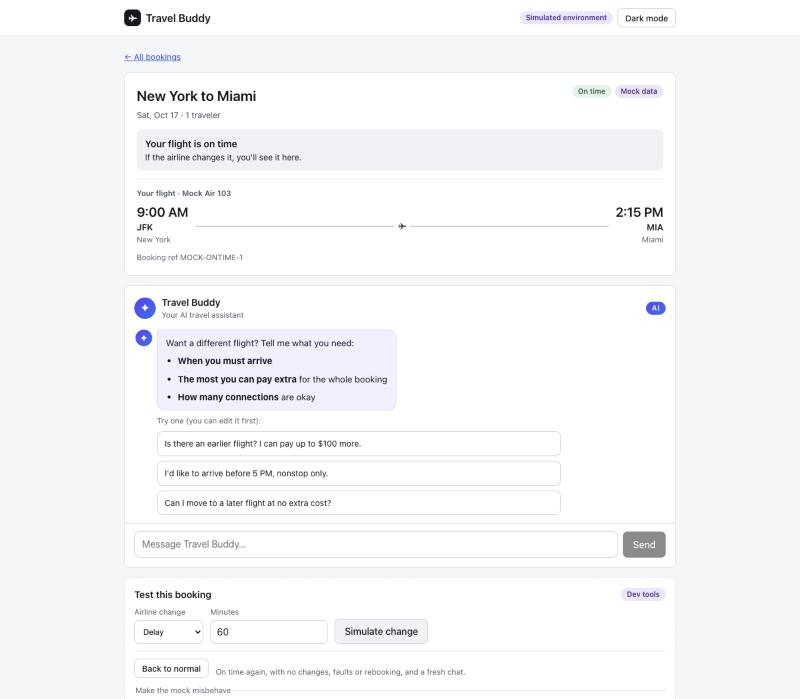
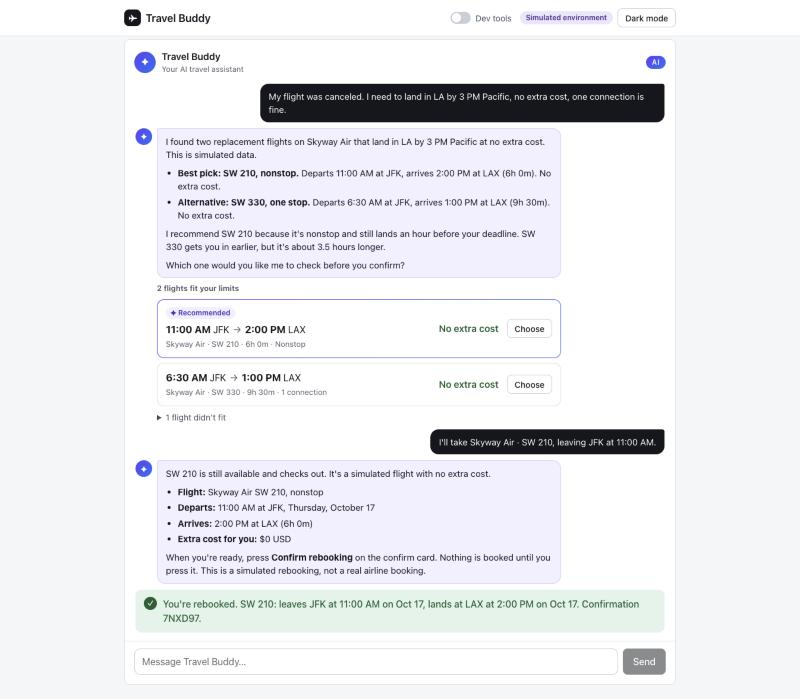
Rewrite the README for a quick read, with new screenshots

diff --git a/README.md b/README.md
@@ -1,22 +1,21 @@
 # Travel Buddy
 
-An AI agent that helps a disrupted traveler compare replacement flights and complete a **simulated** rebooking. Claude reasons and explains. Application code enforces the rules, and the model has no tool that can book.
+**An AI agent that rebooks travelers after a canceled, delayed or missed flight, and can't book anything the traveler didn't confirm.**
 
-**Who it is for:** Travel Buddy is a traveler-facing recovery assistant for the airline and travel industry. It helps someone whose flight was canceled, delayed or missed choose a replacement, instead of waiting on hold or in line.
+![Travel Buddy: the traveler's limits in plain words, flight options as cards with a recommended pick, and a rebooking receipt](docs/images/booking-page.jpg)
 
-- **Traveler flow:** explains the disruption, asks for limits (extra cost, arrival time, connections), shows the options that fit as cards and recommends one, and rebooks only when the traveler presses Confirm.
-- **Code decides:** eligibility, cost, currency, the traveler's limits, confirmation and duplicate-attempt checks are application code. Mock data and Duffel test data stay separate and labeled, and tool output is treated as untrusted.
-- **Stack:** Python (FastAPI), React + TypeScript, Anthropic API, Duffel test API. 630+ backend tests.
-- **Status:** MVP 1 works end to end on test data: bookings, airline-change detection, chat with option cards, the limits filter, safety guards, a strict confirmation gate, clear errors when the server or the AI is down, and an eval runner. Latest live run (`claude-haiku-5-5`): PRD cases 12 of 12 with 0 rule violations; requirement understanding 29 of 30 runs (97%, target 90%). Not a production airline integration.
+- **AI with guardrails in code.** Claude understands the traveler and explains the options. Application code enforces their limits, the price and the final Confirm button. The model has no tool that can book.
+- **Measured, not assumed.** An eval runner, judged by code, replays scenarios against the live model. Latest run: **12 of 12** PRD scenarios completed with **0 rule violations**, and **97%** requirement understanding (target 90%) across 15 cases, including typos, Spanish and a group that disagrees.
+- **Built like a product.** Option cards with a recommended pick, a receipt after booking, clear messages when the AI or server is down, test data that never goes stale, and a demo mode.
+- **Stack:** Python (FastAPI), React + TypeScript, Claude (Anthropic API), Duffel test API. 680+ backend tests.
 
-## Screenshots
-| Bookings list | Booking page |
-|---|---|
-| ![Bookings list with disrupted and on-time test bookings](docs/images/bookings-list.jpg) | ![Booking page: the flight on top, then the chat with Travel Buddy](docs/images/booking-page.jpg) |
+Everything is simulated: no real tickets are bought. Built by [Jian Ting Li](https://github.com/JianTing-Li) (API, tools, Duffel, frontend) and [Cheich Toure](https://github.com/Cheicht) (agent, safety harness, evals).
 
-All data shown is simulated test data.
+---
 
-## Run it
+<details>
+<summary><strong>Run it</strong></summary>
+
 Put `ANTHROPIC_API_KEY`, `MODEL` and a Duffel **test** `DUFFEL_ACCESS_TOKEN` in a local `.env`, then:
 
 ```bash
@@ -25,21 +24,34 @@ python3.14 -m venv .venv && .venv/bin/pip install -r backend/requirements.txt   
 cd frontend && npm install && VITE_DEV_PANEL=true npm run dev   # http://localhost:5173
 ```
 
-## Check it
+The "Dev tools" switch in the header hides the test tools for a demo.
+</details>
+
+<details>
+<summary><strong>Check it</strong></summary>
+
 ```bash
-.venv/bin/python -m pytest backend/tests/unit                      # unit tests, no network
-.venv/bin/python -m backend.tests.evals.runner --mode scripted     # the 4 PRD cases, free and repeatable
-.venv/bin/python -m backend.tests.evals.runner --mode live --runs 3    # same cases with the real model (costs credit)
-.venv/bin/python -m backend.tests.evals.runner --mode live --suite requirements --runs 3   # requirement understanding
+.venv/bin/python -m pytest backend/tests/unit                                            # unit tests, no network
+.venv/bin/python -m backend.tests.evals.runner --mode scripted                           # PRD scenarios, free
+.venv/bin/python -m backend.tests.evals.runner --mode live --runs 3                      # real model (costs credit)
+.venv/bin/python -m backend.tests.evals.runner --mode live --suite requirements --runs 2  # requirement understanding
 ```
+
 The runner judges with code only, never with a second model.
+</details>
 
-## Out of scope for MVP 1
-- **No real tickets.** Duffel's test mode and clearly labeled mock data only. Nothing is bought or changed with a real airline.
-- **No splitting a group.** Everyone on a booking stays on the same itinerary.
-- **No staff tool.** The support handoff is simulated, and no real staff follow up.
-- **No payments, refunds or reimbursement promises.** The agent never promises any.
-- **Prompt-injection defense is best effort.** Code enforces the limits and the confirmation, and text in tool results is treated as data, so a planted instruction cannot book anything. We have only checked it with `claude-haiku-5-5`, on the four PRD cases and fifteen requirement cases. An earlier run once prepared a rebooking when the traveler said to skip the rules; nothing was booked, and since then the gate refuses to prepare anything before a checked search and the prompt keeps the steps. It is still not proven for every model or input.
-- **Not deployed.** Sessions live in memory, so run one backend process. A public demo would need protection first (see TASKS.md).
+<details>
+<summary><strong>Out of scope for MVP 1</strong></summary>
 
-By [Jian Ting Li](https://github.com/JianTing-Li) (API, tools, Duffel, frontend) and [Cheich Toure](https://github.com/Cheicht) (agent, harness, evals). See [TASKS.md](TASKS.md).
+- **No real tickets or payments.** Duffel's test mode and labeled mock data only.
+- **One itinerary per booking.** A group always stays together.
+- **Simulated support handoff.** No real staff follow up.
+- **Prompt-injection defense is best effort.** Code enforces the limits and the confirmation, so a planted instruction can't book anything. Tested with `claude-haiku-5-5` only.
+- **Not deployed.** Sessions live in memory; a public demo needs an access code and rate limits first (see [TASKS.md](TASKS.md)).
+</details>
+
+<details>
+<summary><strong>Bookings list</strong></summary>
+
+![Bookings list with disrupted and on-time test bookings](docs/images/bookings-list.jpg)
+</details>
